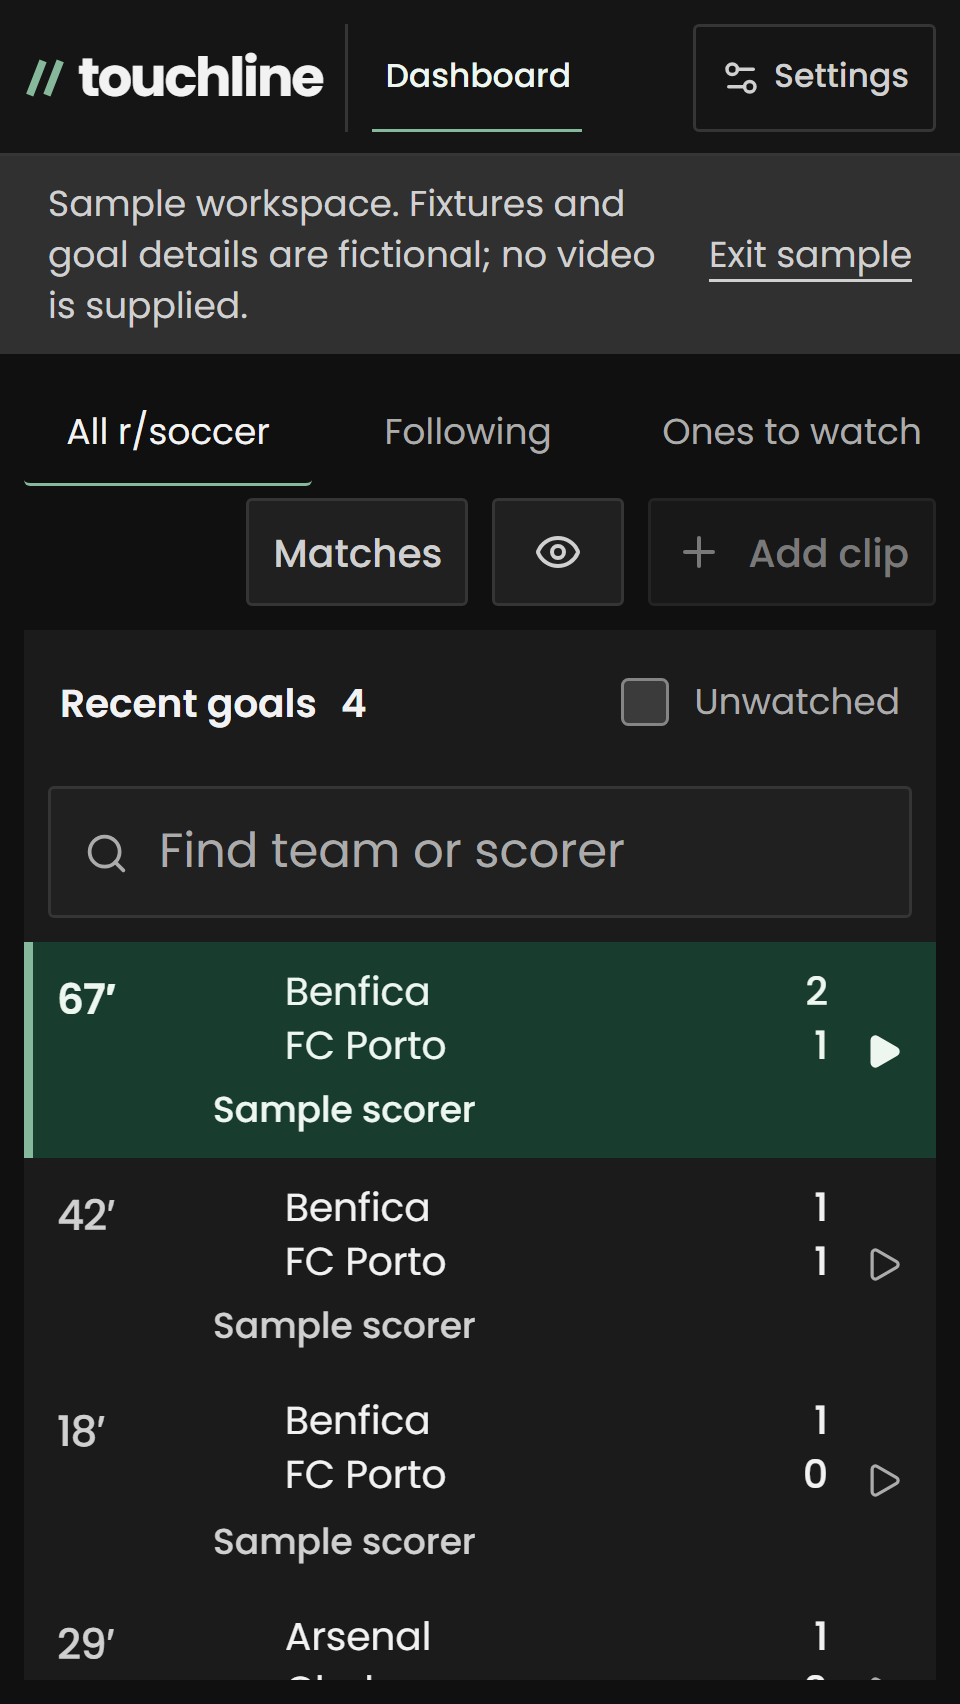
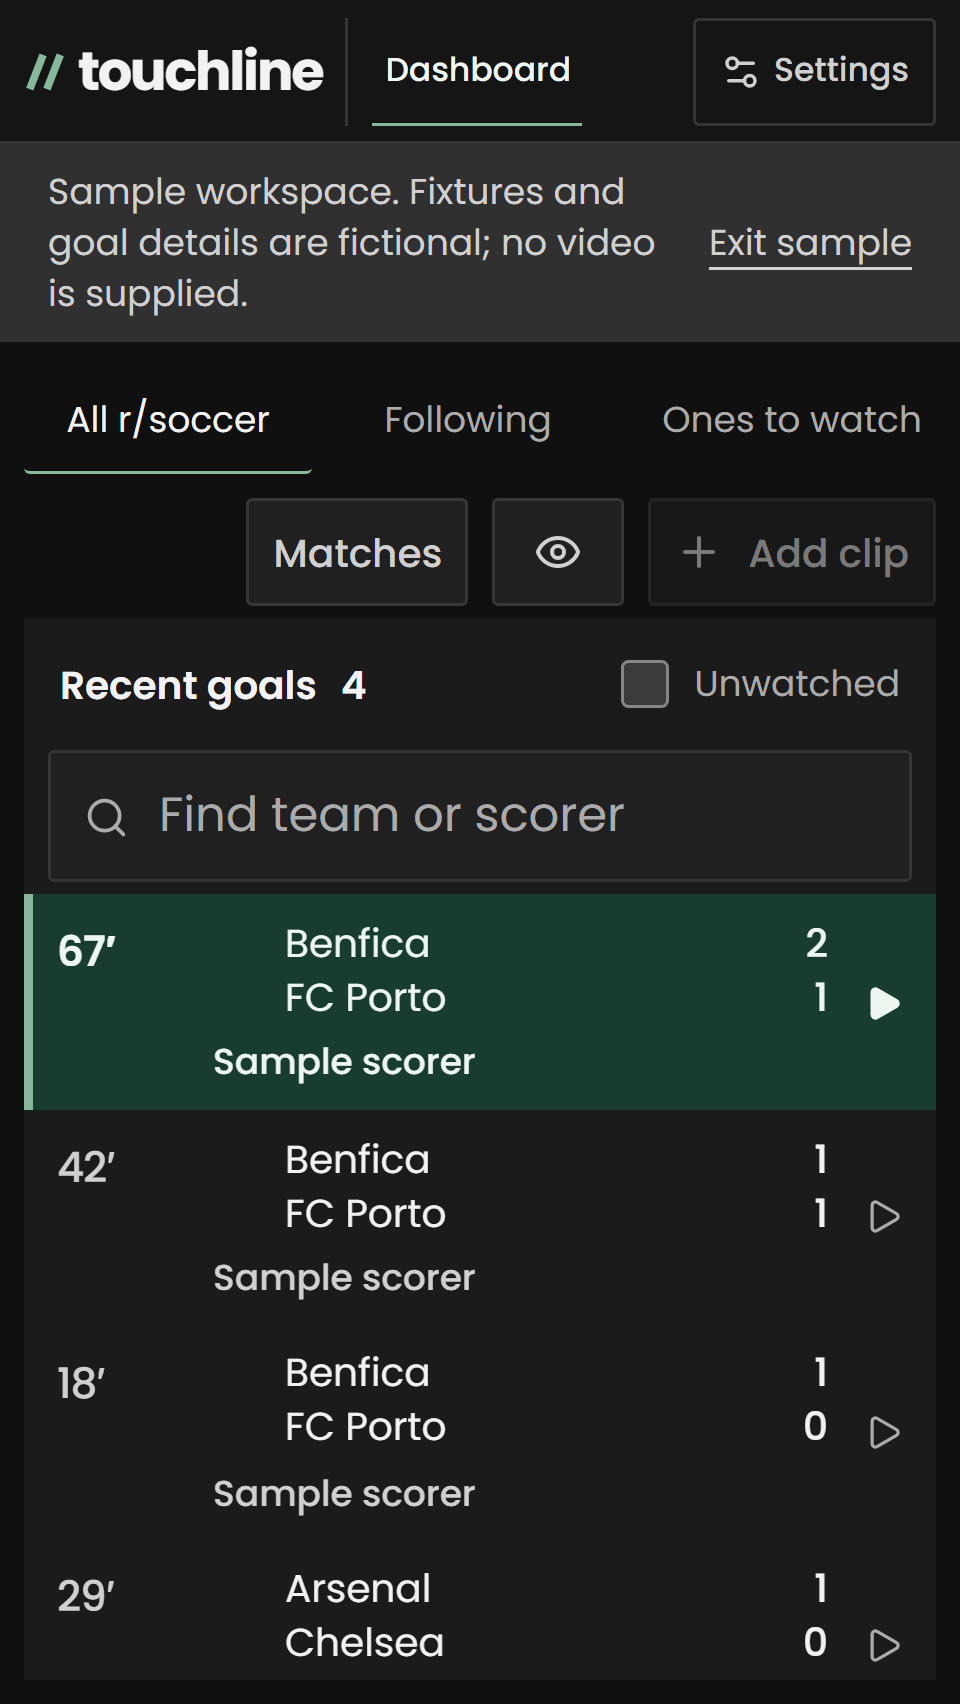
Tighten dashboard spacing and consolidate playback actions

diff --git a/web/src/style.css b/web/src/style.css
@@ -3003,3 +3003,81 @@ summary:focus-visible {
     height: 14px;
   }
 }
+
+/* Shared spacing rhythm: compact chrome, continuous viewing area. */
+.topbar {
+  min-height: 48px;
+  padding-block: var(--space-2xs);
+  gap: var(--space-md);
+}
+.topbar nav {
+  padding-left: var(--space-md);
+}
+.view-goals {
+  padding: var(--space-xs);
+  gap: var(--space-2xs);
+}
+.goal-workspace {
+  gap: clamp(var(--space-xs), 1vw, var(--space-md));
+}
+.workspace-toolbar {
+  gap: var(--space-xs);
+}
+.player-column {
+  gap: var(--space-2xs);
+}
+.player-header {
+  min-height: 44px;
+  padding-block: 0;
+}
+.goal-queue .section-bar,
+.match-rail .section-bar {
+  min-height: 44px;
+}
+.goal-search {
+  margin-top: 0;
+  margin-bottom: var(--space-2xs);
+}
+.clip-details {
+  padding: var(--space-xs);
+  gap: var(--space-xs);
+  align-items: flex-start;
+}
+.clip-actions {
+  flex-direction: row;
+  align-items: center;
+  gap: var(--space-xs);
+}
+.post-details summary {
+  min-height: 28px;
+}
+.match-group-heading {
+  padding-block: var(--space-2xs);
+}
+@media (max-width: 1120px) {
+  .clip-actions {
+    flex-direction: column;
+    align-items: flex-end;
+    gap: var(--space-2xs);
+  }
+}
+@media (max-width: 760px) {
+  .topbar {
+    min-height: 48px;
+    gap: var(--space-xs);
+  }
+  .topbar nav {
+    padding-left: var(--space-xs);
+  }
+  .goal-workspace.player-open .player-column {
+    gap: var(--space-2xs);
+  }
+  .clip-actions {
+    flex-direction: row;
+    align-items: center;
+    gap: var(--space-xs);
+  }
+  .mobile-back {
+    min-height: 32px;
+  }
+}
